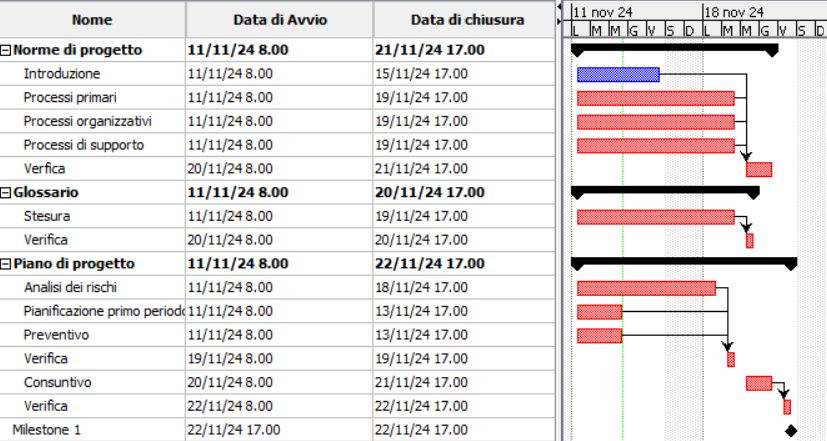
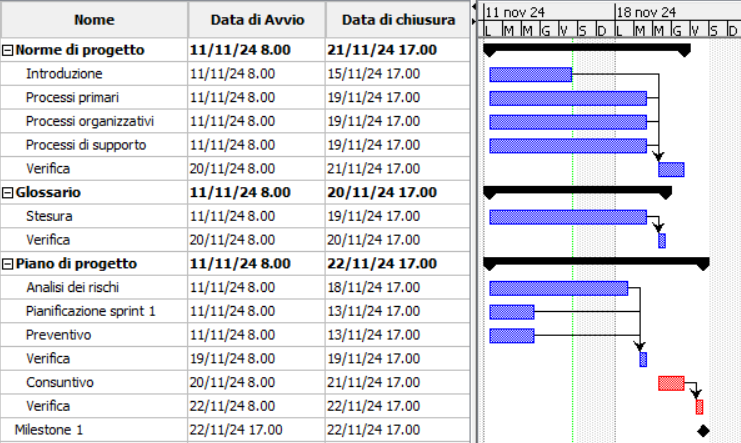
aggiunta pianificazione sprint 1

diff --git a/Docs/Generali/piano_di_progetto/03_pianificazione.tex b/Docs/Generali/piano_di_progetto/03_pianificazione.tex
@@ -14,9 +14,8 @@ Lo sviluppo del progetto è suddiviso nelle seguenti fasi:
             \item "Glossario"
         \end{itemize}
     Inoltre verrà realizzato il Proof of Concept, per valutare la fattibilità tecnologica del progetto.
-        \subsubsection{Primo periodo}
-        11/11/2024 - 22/11/2024\\\\
-        In questo periodo andremo verrà definito il way of working, documentato nelle
+        \subsubsection{Sprint 1 (dal 11/11/2024 al 22/11/2024)}
+        In questo periodo verrà definito il way of working, documentato nelle
         "Norme di progetto". Per quanto riguarda la gestione di progetto, verranno 
         pianificate le attività, stilato un preventivo e analizzati i rischi che potrebbero
         incidere sullo svolgimento del progetto. Infine si comincerà a redigere il 
@@ -26,7 +25,7 @@ Lo sviluppo del progetto è suddiviso nelle seguenti fasi:
         \begin{figure}[h!]
             \centering
             \includegraphics[scale = 0.85]{template/images/gantt1.png}
-            \caption{\ref{fig:3.1} Diagramma di Gantt primo periodo}
+            \caption{Diagramma di Gantt sprint 1}
             \label{fig:3.1} % Etichetta per il riferimento
         \end{figure}
         
